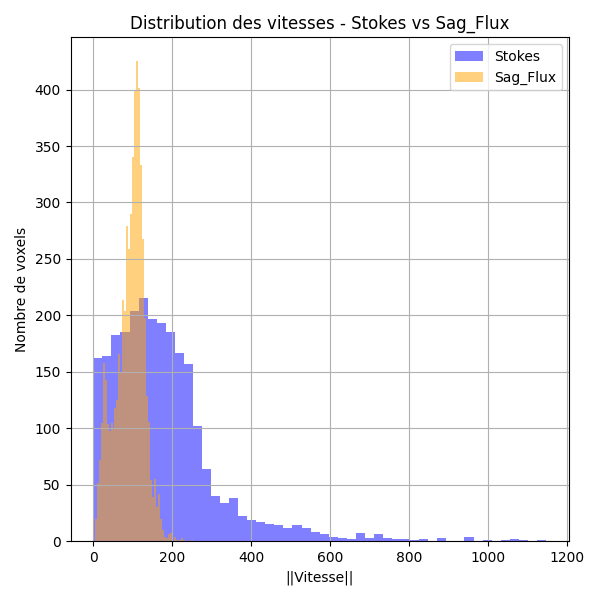
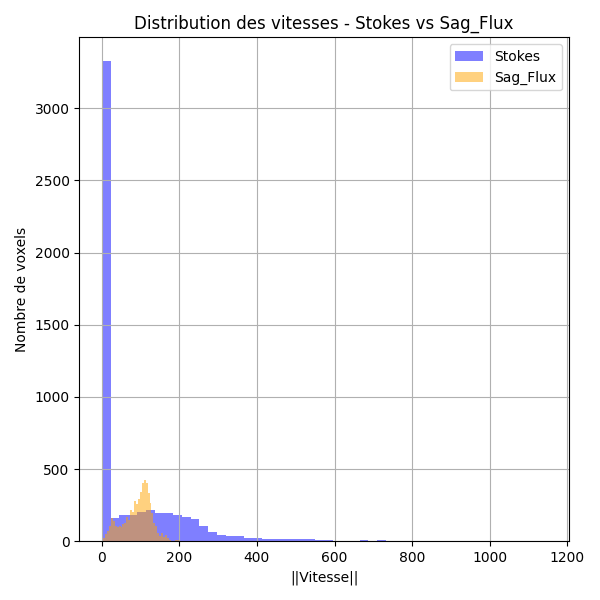
added images and process transform matrices

diff --git a/recalage/process_transforms.py b/recalage/process_transforms.py
@@ -1,0 +1,70 @@
+import argparse
+import numpy as np
+import SimpleITK as sitk
+import os
+
+def parse_args():
+    parser = argparse.ArgumentParser(description='Process transform files and extract affine matrices.')
+    parser.add_argument('--transform', '-t', required=True, help='Path to the transform file')
+    parser.add_argument('--output', '-o', default="recalage/matrices", help='Output file path. If not provided, will use input name with _affine.txt appended')
+    return parser.parse_args()
+
+def read_transform(transform_path):
+    """Read a transform from file using SimpleITK."""
+    return sitk.ReadTransform(transform_path)
+
+def process_transform(transform):
+    """Process a transform and extract all affine matrices."""
+    num_transforms = transform.GetNumberOfTransforms()
+    print(f"Total number of transforms: {num_transforms}")
+    
+    affine_matrices = []
+    for i in range(num_transforms):
+        trsfm = transform.GetNthTransform(i)
+        print(f"Transform {i} parameters:", trsfm.GetParameters())
+        print(trsfm.GetMatrix())
+        
+        # Extract the 3×3 rotation matrix
+        R = np.array(trsfm.GetMatrix()).reshape(3, 3)
+        
+        # Extract the translation vector
+        t = np.array(trsfm.GetTranslation())  # shape (3,)
+        
+        # Build the 4×4 affine matrix
+        A = np.eye(4)
+        A[:3, :3] = R
+        A[:3, 3] = t
+        
+        print(f"4x4 affine matrix for transform {i}:\n", A)
+        affine_matrices.append(A)
+    
+    return affine_matrices
+
+def save_affine_matrices(affine_matrices, output_path):
+    """Save the affine matrices to a file."""
+    with open(output_path, 'w') as f:
+        for i, A in enumerate(affine_matrices):
+            f.write(f"# Affine matrix for transform {i}\n")
+            np.savetxt(f, A, fmt='%.8f')
+            f.write("\n")
+    print(f"Affine matrices saved to {output_path}")
+
+def main():
+    args = parse_args()
+    transform_path = args.transform
+    
+    # Determine output path
+    if args.output:
+        output_path = args.output
+    else:
+        base, _ = os.path.splitext(transform_path)
+        output_path = f"{base}_affine.txt"
+    
+    print(f"Reading transform from {transform_path}")
+    transform = read_transform(transform_path)
+    
+    affine_matrices = process_transform(transform)
+    save_affine_matrices(affine_matrices, output_path)
+
+if __name__ == "__main__":
+    main()

diff --git a/flux/shift_flux.py b/flux/shift_flux.py
@@ -3,7 +3,7 @@ import SimpleITK as sitk
 import pyvista as pv
 
 # Read the transform back from file:
-transform = sitk.ReadTransform("recalage/transforms/transform_Sag_Optm_output.vtk.txt")
+transform = sitk.ReadTransform("recalage/transforms/transform_Sag_GRE_output.vtk.txt")
 
 #help(transform)
 
@@ -27,7 +27,7 @@ for i in range(num_transforms):
     A[:3, :3] = R
     A[:3,  3] = t
 
-    print("4×4 affine matrix:\n", A)
+    print("4x4 affine matrix:\n", A)
 
     # Load your Stokes mesh (or whichever you’re moving)
     stokes = pv.read("VTK_Files/Stokes.vtu")
@@ -45,5 +45,4 @@ for i in range(num_transforms):
     plotter.add_mesh(stokes_registered, color="lightgray", opacity=0.5)
     plotter.add_volume(fx, opacity=0.5)
     plotter.add_volume(moving)
-    # … plus your glyphs overlay …
     plotter.show()

diff --git a/flux/visualize_flux.py b/flux/visualize_flux.py
@@ -40,10 +40,10 @@ flux_magnitude = flux.point_data[flux_magnitude_field]
 flux_magnitude_norm = (flux_magnitude - flux_magnitude.min()) / (flux_magnitude.max() - flux_magnitude.min())
 flux.point_data[flux_magnitude_field] = flux_magnitude_norm
 
-stokes_filtered = stokes.threshold(value=0.07, scalars=stokes_magnitude_field)
+#stokes = stokes.threshold(value=0.05, scalars=stokes_magnitude_field) #filter out near zero magnitude values
 
 # Generate glyphs for both
-glyphs_stokes = stokes_filtered.glyph(
+glyphs_stokes = stokes.glyph(
     orient=vector_field, scale=False, factor=1.5, geom=pv.Arrow()
 )
 glyphs_flux = flux.glyph(
